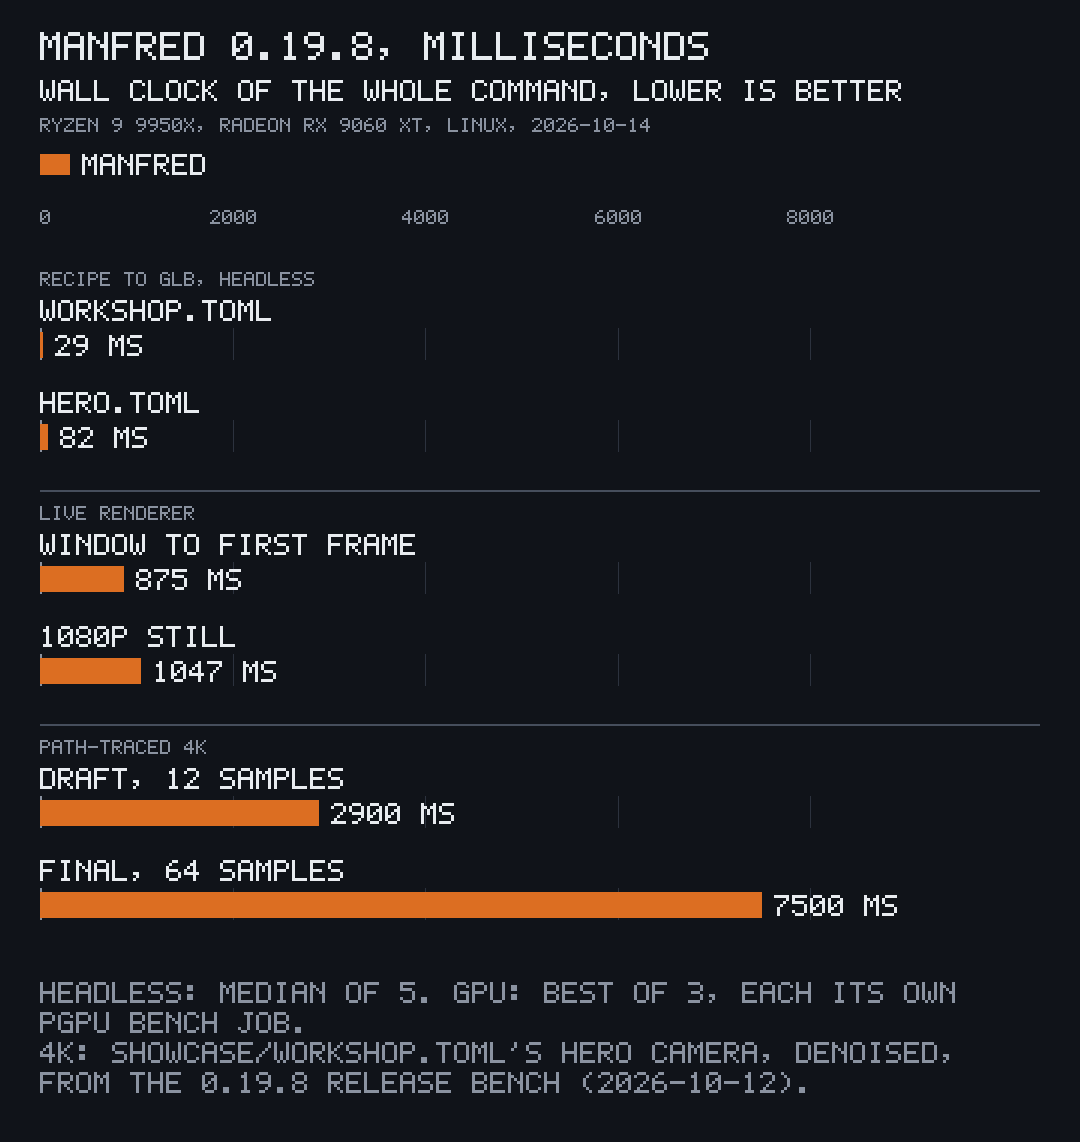
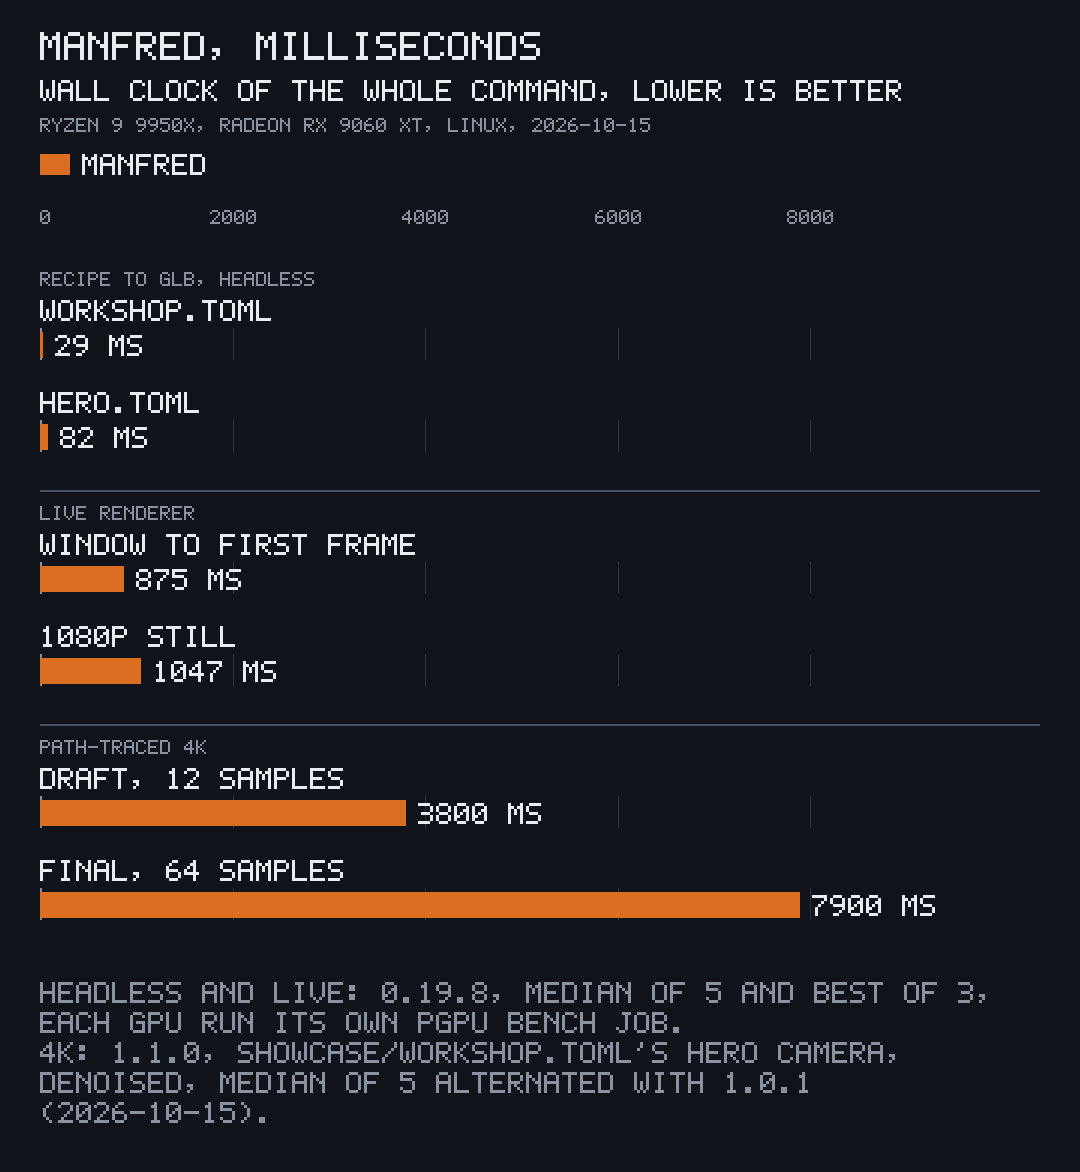
The README and docs give 1.1.0's 4K render times from an A/B run against 1.0.1 on a busy machine: final 7.9 s, draft 3.8 s.

diff --git a/README.md b/README.md
@@ -9,7 +9,7 @@ Manfred is a lighter Blender, part of [PITO MD](https://pitomd.com): 3D scenes w
 - **31× smaller than Blender:** 39.8 MB, one file, against Blender 5.2.2's 1,236.5 MB in 5,593 files.
 - **Recipe to GLB in 29 ms:** `showcase/workshop.toml`, 19 objects, 13 MB of memory at most, the same bytes on every run.
 - **Window to first frame in 0.88 s,** the workshop scene loaded, built and drawn.
-- **A 4K path-traced final in 7.5 s,** adaptive to 64 samples and denoised; a 4K draft in 2.9 s.
+- **A 4K path-traced final in 7.9 s,** adaptive to 64 samples and denoised; a 4K draft in 3.8 s.
 
 Every number is measured on a Ryzen 9 9950X with a Radeon RX 9060 XT on Linux; [Speed and size](#speed-and-size) says how.
 
@@ -39,7 +39,7 @@ It is not a modeller: there is no sculpting and no hand mesh editing. Meshes com
 
 <p align="center"><img src="docs/images/render.gif" width="800" alt="Manfred's window on showcase/hero.toml: the Render button in the render panel path-traces the hero camera, and the finished render, a still life of a blue case, a porcelain vase, a wine glass and a chrome ball under a low sun, fills the viewport."></p>
 
-`manfred render` path-traces a still on the GPU with the engine's tracer (hardware ray queries, adaptive sampling, a port of Intel Open Image Denoise), headless or from the window's Render button. On the RX 9060 XT a 4K final of the workshop's hero camera takes 7.5 s, adaptive to 64 samples a pixel and denoised, and a 4K draft takes 2.9 s. It writes PNG, EXR or HDR, renders a crop of a bigger frame, and takes equirectangular and orthographic cameras.
+`manfred render` path-traces a still on the GPU with the engine's tracer (hardware ray queries, adaptive sampling, a port of Intel Open Image Denoise), headless or from the window's Render button. On the RX 9060 XT a 4K final of the workshop's hero camera takes 7.9 s, adaptive to 64 samples a pixel and denoised, and a 4K draft takes 3.8 s. It writes PNG, EXR or HDR, renders a crop of a bigger frame, and takes equirectangular and orthographic cameras.
 
 ### Camera clips
 
@@ -71,7 +71,7 @@ A recipe then asks for it with `kind = "generator"`, `generator = "app/cube"` an
 
 ## Speed and size
 
-<p align="center"><img src="docs/images/speed.png" width="640" alt="Single bars, milliseconds, lower is better, Manfred 0.19.8 on a Ryzen 9 9950X with a Radeon RX 9060 XT: recipe to GLB 29 ms for workshop.toml and 82 ms for hero.toml; window to first frame 875 ms and a 1080p live still 1047 ms; path-traced 4K draft at 12 samples 2900 ms and final at 64 samples 7500 ms."></p>
+<p align="center"><img src="docs/images/speed.png" width="640" alt="Single bars, milliseconds, lower is better, Manfred on a Ryzen 9 9950X with a Radeon RX 9060 XT: recipe to GLB 29 ms for workshop.toml and 82 ms for hero.toml; window to first frame 875 ms and a 1080p live still 1047 ms; path-traced 4K draft at 12 samples 3800 ms and final at 64 samples 7900 ms (1.1.0)."></p>
 
 <p align="center"><img src="docs/images/size.png" width="640" alt="Paired bars, installed size on Linux in megabytes, lower is better: Manfred 0.19.8 39.8 MB against Blender 5.2.2 1236.5 MB, 31 times smaller; Blender is 5,593 files from a 383.3 MB tar.xz."></p>
 
@@ -83,8 +83,8 @@ A recipe then asks for it with `kind = "generator"`, `generator = "app/cube"` an
 | Peak memory of a build | 13 MB (workshop), 22 MB (hero) | the same runs' maximum resident set |
 | Window to first frame | 875 ms | `manfred gui showcase/workshop.toml --shot`, offscreen at 1586x992, whole command, best of 3 |
 | A live 1080p still | 1,047 ms | `manfred shot showcase/workshop.toml --camera hero --size 1920x1080`, whole command, best of 3 |
-| 4K path-traced final | 7.5 s wall, 6.1 s on the GPU | the workshop's hero camera at 3840x2160, adaptive to 64 samples (59.9 a pixel on average), denoised, best of 3 |
-| 4K path-traced draft | 2.9 s wall, 1.5 s on the GPU | the same with `--draft`, adaptive to 12 samples (11.5 on average) |
+| 4K path-traced final | 7.9 s wall, 6.3 s on the GPU | the workshop's hero camera at 3840x2160, adaptive to 64 samples (59.9 a pixel on average), denoised; 1.1.0's release build, median of 5 runs alternated with 1.0.1's on a busy machine (load 6 to 22 on 32 threads) |
+| 4K path-traced draft | 3.8 s wall, 1.5 s on the GPU | the same with `--draft`, adaptive to 12 samples (11.5 on average) |
 | Code | 68,842 lines of Rust in 158 files, tests included | non-blank lines in the repository |
 | Dependencies | pfx, its engine, and 16 maintained crates | direct dependencies of the workspace (clap, serde, serde_json, toml, toml_edit, egui, egui-wgpu, glam, gltf, gltf-json, png, exr, half, zune-jpeg, ttf-parser, i_overlay); 308 crates in the whole build |
 

diff --git a/docs/site/guides/render.md b/docs/site/guides/render.md
@@ -16,7 +16,7 @@ manfred render showcase/hero.toml --camera hero --out hero.png
 manfred render showcase/hero.toml --camera hero --draft --out hero-draft.png
 ```
 
-A final traces each pixel until its noise is under 0.01, at least 16 samples and at most 64, then denoises. `--draft` is a quick look at the same size: at most 12 samples, threshold 0.05, 6 first. On a Radeon RX 9060 XT a 4K final of the workshop's hero camera takes 7.5 s and a 4K draft 2.9 s.
+A final traces each pixel until its noise is under 0.01, at least 16 samples and at most 64, then denoises. `--draft` is a quick look at the same size: at most 12 samples, threshold 0.05, 6 first. On a Radeon RX 9060 XT a 4K final of the workshop's hero camera takes 7.9 s and a 4K draft 3.8 s.
 
 stdout gets the file written; stderr gets a summary:
 

diff --git a/docs/site/index.md b/docs/site/index.md
@@ -12,7 +12,7 @@ Manfred is a lighter Blender, part of [PITO MD](https://pitomd.com): 3D scenes w
 - **31× smaller than Blender:** 39.8 MB, one file, against Blender 5.2.2's 1,236.5 MB in 5,593 files.
 - **Recipe to GLB in 29 ms:** the 19-object workshop scene, 13 MB of memory at most, the same bytes on every run.
 - **Window to first frame in 0.88 s,** the workshop scene loaded, built and drawn.
-- **A 4K path-traced final in 7.5 s,** adaptive to 64 samples and denoised; a 4K draft in 2.9 s.
+- **A 4K path-traced final in 7.9 s,** adaptive to 64 samples and denoised; a 4K draft in 3.8 s.
 
 Every number is measured on a Ryzen 9 9950X with a Radeon RX 9060 XT on Linux.
 
